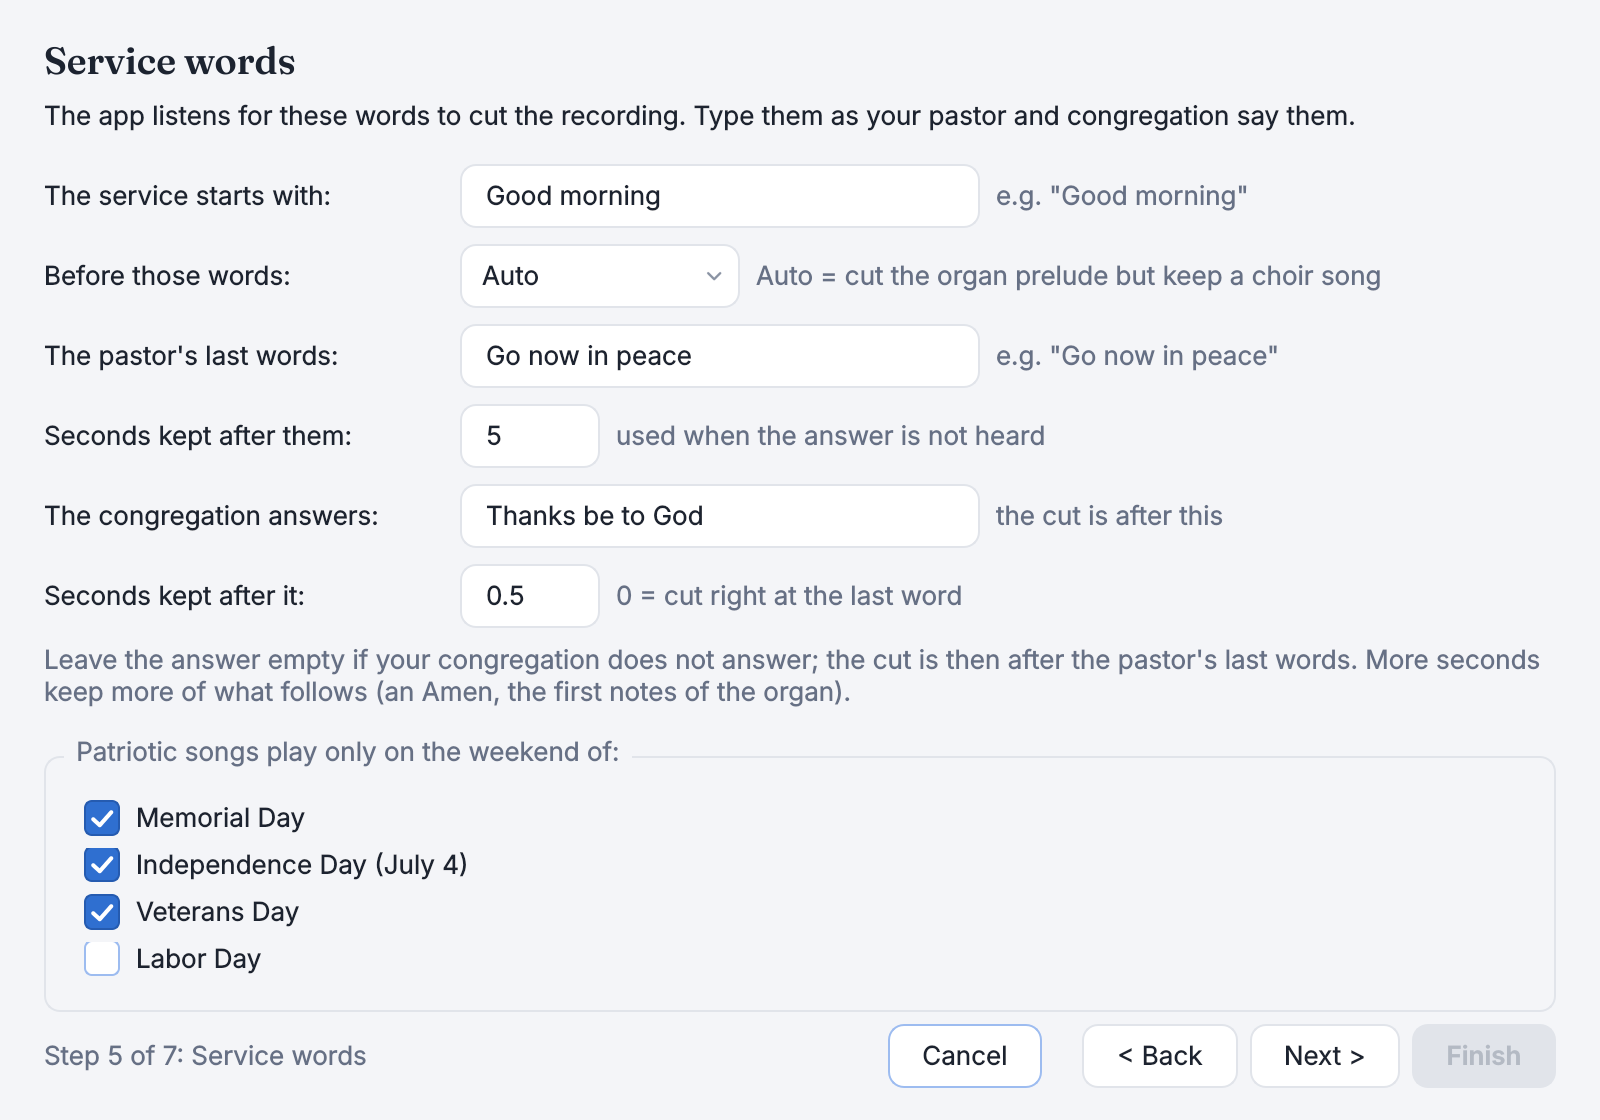
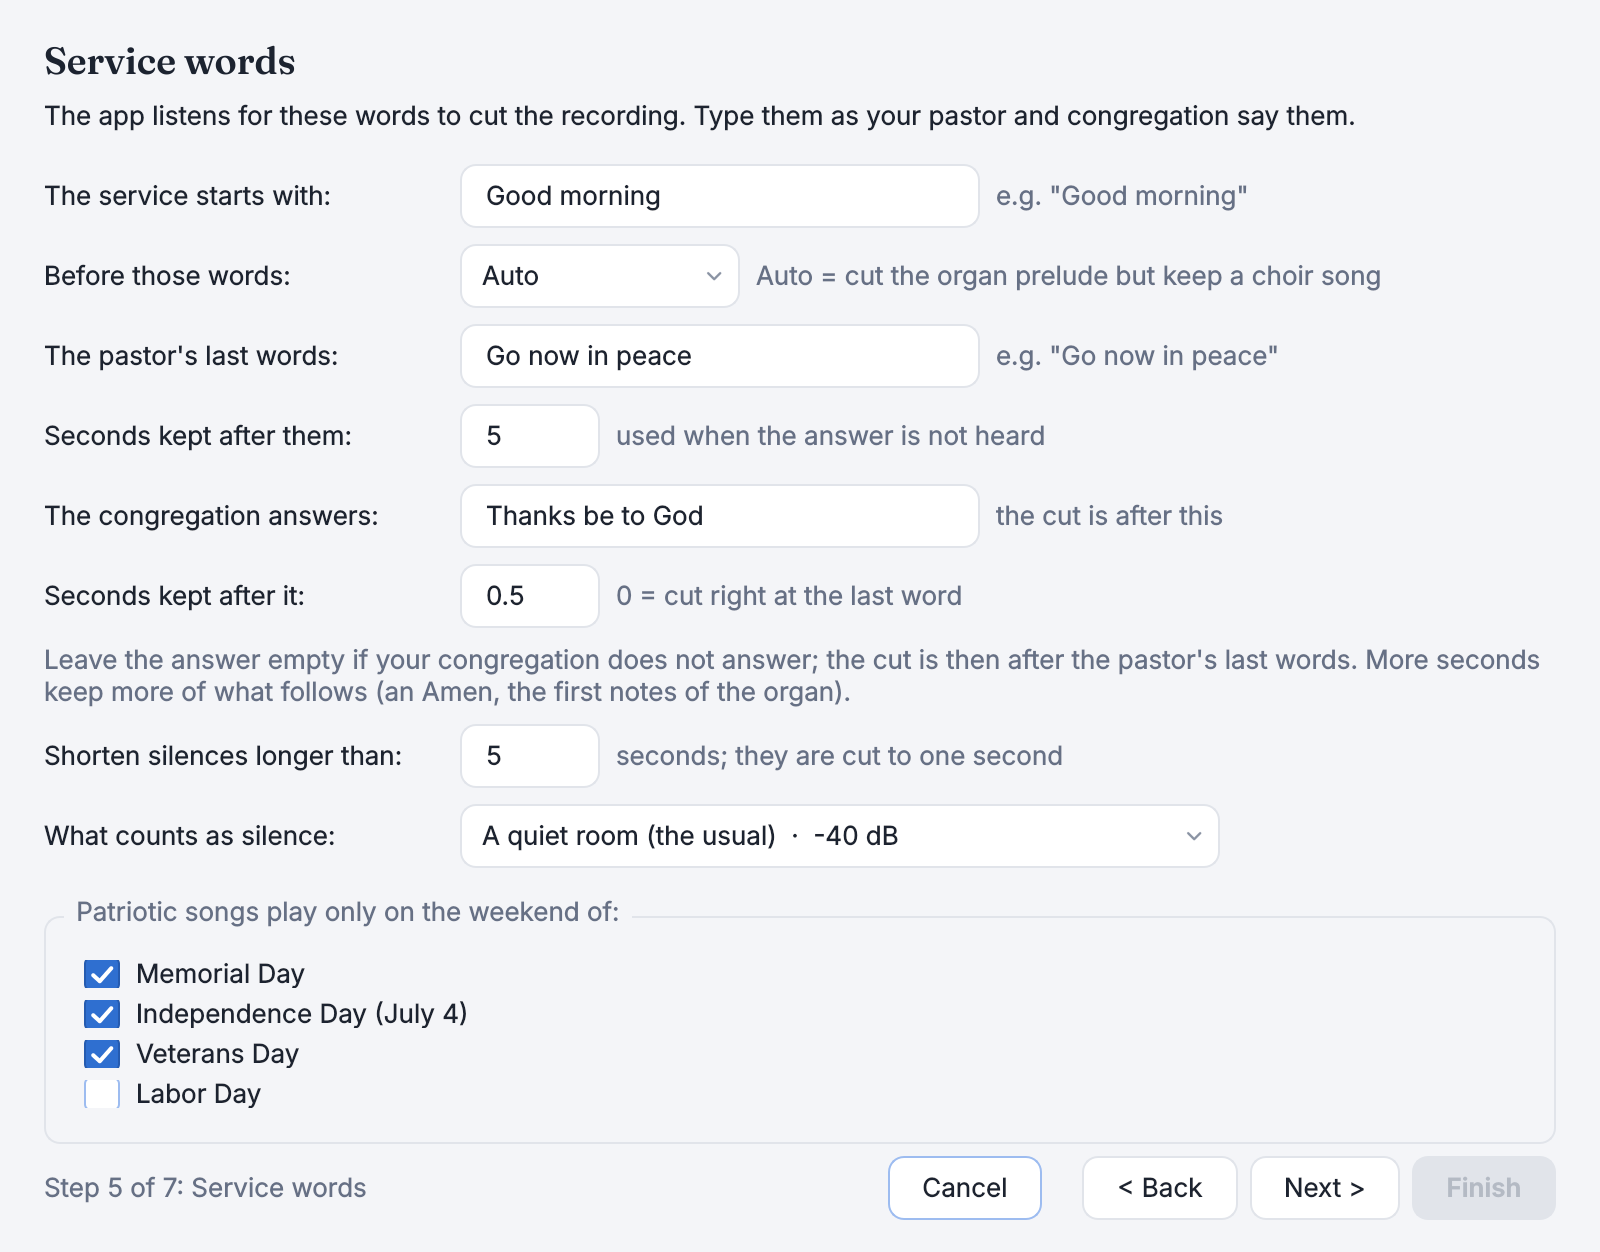
1.5.3: the silence settings on the Settings page
- Service words: "Shorten silences longer than" (max_silence_seconds) and "What counts as
  silence" (silence_level_db), a list in plain words from "Only complete silence" to "Soft sounds
  too". A level typed in config.json is listed too.
- Songs: a box "Remove the silence at the start and end of each song" (trim_song_silence).
- song_silence_db stays in config.json: a song's silence is measured once, so changing the level
  would do nothing for songs already measured.
- The release notes and the workflow's default tag are set for 1.5.3; the pictures are retaken.

Claude-Session: https://claude.ai/code/session_017JJoBzBoRy6k521iZSm6qM

diff --git a/setup_wizard.py b/setup_wizard.py
@@ -39,6 +39,15 @@ def folder_size_mb(folder):
     return total / 1e6
 
 
+# How quiet counts as silence in the service (silence_level_db in config.json), in plain words.
+SILENCE_LEVELS = ((-50, "Only complete silence"), (-45, "A very quiet room"), (-40, "A quiet room (the usual)"),
+                  (-35, "Quiet sounds too, such as rustling"), (-30, "Soft sounds too, such as a murmur or soft organ"))
+
+
+def level_text(db, words):
+    return f"{words}  ·  {db:g} dB"
+
+
 class SettingsForm(QWidget):
     """The settings fields. wizard: one page at a time, with Back / Next (first_run: from the
     welcome page, and Finish only on the last page); else all of them on one page with Save.
@@ -167,6 +176,15 @@ class SettingsForm(QWidget):
         old_pad = c.get("end_answer_pad", prelude.END_ANSWER_PAD)
         if c.get("end_alt_pad", prelude.END_ALT_PAD) == old_pad:
             c["end_alt_pad"] = pad
+        try:
+            silence = float(self.silence_seconds.text().replace(",", "."))
+        except ValueError:
+            raise ValueError("The length of the silences that are shortened must be a number of seconds, "
+                             "for example 5.")
+        if not 1 <= silence <= 120:  # (not: nan)
+            raise ValueError("The length of the silences that are shortened must be 1 to 120 seconds.")
+        c.update(max_silence_seconds=silence, silence_level_db=self.silence_level.currentData(),
+                 trim_song_silence=self.trim_songs.isChecked())
         c.update(end_after_seconds=after, end_answer_pad=pad, check_updates=self.check_updates.isChecked())
         c.update(broadcast_name=name, target_minutes=minutes, tolerance_seconds=tol,
                  date_format=self.date_format.currentData() or builder.DATE_FORMAT,
@@ -355,6 +373,11 @@ class SettingsForm(QWidget):
         self.body.addLayout(line)
         self.folder_note = ui.label("", "hint", wrap=True)
         self.body.addWidget(self.folder_note)
+        self.trim_songs = QCheckBox("Remove the silence at the start and end of each song")
+        self.trim_songs.setChecked(bool(self.cfg.get("trim_song_silence", True)))
+        self.trim_songs.setToolTip("The songs then follow each other, and the service, without a gap. Switched off, "
+                                   "each song is played whole, with any silence its file has.")
+        self.body.addWidget(self.trim_songs)
         self.count_songs()
 
     def add_folder(self):
@@ -402,6 +425,20 @@ class SettingsForm(QWidget):
         self.body.addWidget(ui.label("Leave the answer empty if your congregation does not answer; the "
                                      "cut is then after the pastor's last words. More seconds keep more of "
                                      "what follows (an Amen, the first notes of the organ).", "hint", wrap=True))
+        # Long silences inside the service (max_silence_seconds, silence_level_db in config.json).
+        self.silence_seconds = QLineEdit(f"{c.get('max_silence_seconds', 5):g}")
+        self.silence_level = QComboBox()
+        level = c.get("silence_level_db", -40)
+        levels = dict(SILENCE_LEVELS)
+        if level not in levels:  # a level typed in config.json is listed too
+            levels[level] = "Your own level"
+        for db in sorted(levels):
+            self.silence_level.addItem(level_text(db, levels[db]), db)
+        self.silence_level.setCurrentIndex(sorted(levels).index(level))
+        self.silence_level.setToolTip("Further down the list, more counts as silence, so more is shortened. If "
+                                      "quiet prayers or soft music are cut short, choose a line further up.")
+        self.row("Shorten silences longer than:", self.silence_seconds, "seconds; they are cut to one second", width=70)
+        self.row("What counts as silence:", self.silence_level, width=380)
         self.body.addSpacing(6)
         box = QGroupBox("Patriotic songs play only on the weekend of:")
         inside = QVBoxLayout(box)

diff --git a/tests/test_core.py b/tests/test_core.py
@@ -1822,6 +1822,27 @@ class Windows(unittest.TestCase):
         self.assertEqual((c["target_minutes"], c["theme"], c["end_answer_phrase"]), (45, "light", ""))
         self.assertEqual(c["patriotic_holidays"], ["memorial", "veterans"])
 
+    def test_settings_silence(self):
+        """How long and how quiet a silence in the service is shortened, and the songs' silence."""
+        w = self.wizard()
+        self.assertEqual((w.silence_seconds.text(), w.silence_level.currentData(), w.trim_songs.isChecked()),
+                         ("5", -40, True))
+        self.assertIn("the usual", w.silence_level.currentText())
+        w.silence_seconds.setText("7,5")
+        w.silence_level.setCurrentIndex(w.silence_level.findData(-30))
+        w.trim_songs.setChecked(False)
+        c = w.collect()
+        self.assertEqual((c["max_silence_seconds"], c["silence_level_db"], c["trim_song_silence"]), (7.5, -30, False))
+        own = self.wizard(max_silence_seconds=3, silence_level_db=-37, trim_song_silence=False)  # typed in config.json
+        self.assertEqual((own.silence_seconds.text(), own.silence_level.currentData(), own.trim_songs.isChecked()),
+                         ("3", -37, False))
+        self.assertIn("-37 dB", own.silence_level.currentText())
+        self.assertEqual(own.collect()["silence_level_db"], -37)
+        for bad in ("long", "0", "0.5", "121", "nan"):
+            w.silence_seconds.setText(bad)
+            with self.assertRaises(ValueError):
+                w.collect()
+
     def test_settings_end_timing_and_update_check(self):
         """The seconds kept after the pastor's last words and after the congregation's answer."""
         w = self.wizard()

diff --git a/tools/screenshots.py b/tools/screenshots.py
@@ -112,7 +112,7 @@ def main():
     import ui
 
     mp3 = example_data()
-    paths.version = lambda: "1.5.2"  # (from the source code it says "development")
+    paths.version = lambda: "1.5.3"  # (from the source code it says "development")
     app = ui.start_app(["screenshots"], "light")
     ui.set_motion(False)  # still pictures: nothing is caught half-way through an animation
     ui.set_motion = lambda on: None  # (the window would switch them on again from the settings)

diff --git a/.github/RELEASE_NOTES.md b/.github/RELEASE_NOTES.md
@@ -10,13 +10,11 @@ The first start downloads the speech-recognition models once (about 620 MB); aft
 
 Already installed? Install the new version over the old one: it keeps your settings, songs, history and the speech models.
 
-## What's new in 1.5.2
+## What's new in 1.5.3
 
-- **The look of the website, in the app.** Its gradient of navy, blue and green, with gold for a spark, is on a line along the top of the window, the main buttons, the switches of the Songs page, the progress bar and the page titles, and the headings are in the website's typeface. Where things are and what they do has not changed.
-- **A soft glow** under the main buttons and under the card of the finished broadcast.
-- **Small animations.** A page fades in and a band of gold light crosses its title; the menu's marker slides; The hour fills once behind a gold needle; and a light runs along the top line while a broadcast is being made.
-- **Settings → Small animations** switches them off for a still window (`motion` in config.json). Nothing moves while the window is not shown.
+- **Silences in the service, on the Settings page.** Under "Service words" you can now say how long a silence must be before it is shortened ("Shorten silences longer than", 5 seconds unless you change it) and how quiet counts as silence. The second is a list in plain words, from "Only complete silence" to "Soft sounds too, such as a murmur or soft organ", with "A quiet room" as the usual choice. If quiet prayers or soft music are cut short, choose a line further up the list.
+- **Songs with or without their silence.** A new box under "Songs", "Remove the silence at the start and end of each song", is ticked as before. Untick it to play each song whole.
 
-The new look passed the automated tests but has not yet been seen on a real Windows PC or Mac. Please report anything that looks wrong or feels slow.
+These three were settings in config.json before; what they do has not changed, and your own values are kept.
 
 See the [README](https://github.com/Leaven-Labs/ChurchRadio-Studio#readme) for how to use it. `SHA256SUMS.txt` holds the checksums of the three downloads.

diff --git a/README.md b/README.md
@@ -474,8 +474,8 @@ editor for the rest (close the app first).
 | `end_alt_window` / `end_alt_pad` | `20` / `0.5` | As above, for `end_alt_phrase`. |
 | `end_after_seconds` | `5` | If neither is heard: cut this long after the pastor's last words (on the Settings page). |
 | `end_search_minutes` | `10` | How much of the end is searched. |
-| `max_silence_seconds` / `silence_level_db` | `5` / `-40` | Silences in the service longer and quieter than this are shortened. |
-| `trim_song_silence` / `song_silence_db` | `true` / `-50` | Remove silence quieter than this at the start and end of songs. |
+| `max_silence_seconds` / `silence_level_db` | `5` / `-40` | Silences in the service longer and quieter than this are shortened to one second. Both are on the Settings page ("Shorten silences longer than", "What counts as silence"). |
+| `trim_song_silence` / `song_silence_db` | `true` / `-50` | Remove silence quieter than this at the start and end of songs. The first is a box on the Settings page; the level is set here only, and is used when a song is first measured. |
 | `check_song_words` / `song_min_words` | `true` / `6` | Turn off songs with fewer words than this (once per song). |
 | `avoid_repeat_weeks` | `4` | Songs used in this many recent broadcasts go last. |
 | `patriotic_holidays` | `memorial`, `independence`, `veterans` | Weekends that get patriotic songs. `labor` is also possible. |

diff --git a/CLAUDE.md b/CLAUDE.md
@@ -90,7 +90,13 @@ item. Remove it from this file once it is built.
 - **1.5.2: the app in the website's look (below), nothing else.** `.github/RELEASE_NOTES.md` and the
   workflow's default tag are set for it. To release: merge, then run the Release workflow (or push
   `v1.5.2`).
-- **The app in the website's look (November 2026, asked for by the maintainer; set up as 1.5.2).**
+- **1.5.3: the silence settings on the Settings page, nothing else.** `.github/RELEASE_NOTES.md` and the
+  workflow's default tag are set for it. `max_silence_seconds` and `silence_level_db` are in the
+  "Service words" card (the level is a list in plain words, `setup_wizard.SILENCE_LEVELS`; a level typed
+  in config.json is listed too), `trim_song_silence` is a box in the "Songs" card. `song_silence_db` was
+  left in config.json on purpose: a song's silence is measured once and kept in songs.csv, so changing
+  the level would do nothing for songs already measured.
+- **The app in the website's look (November 2026, asked for by the maintainer; released in 1.5.2).**
   All of it is in `ui.py`: the gradient of navy, blue and green with gold (`g1` to `g3`, `spark`), the
   headings in Fraunces (`fraunces.py` carries the font as text, 22 KB, so no file is shipped and the spec
   is unchanged; its license goes into the license file through `tools/third_party_licenses.py`), a glow
